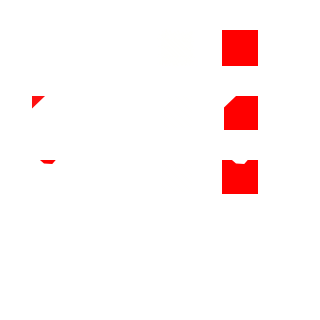
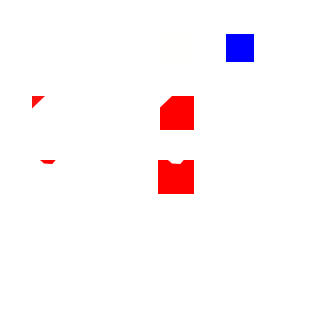
fix: wall rendering

diff --git a/src/net/hedinger/prototype/engine/WorldGenerator.java b/src/net/hedinger/prototype/engine/WorldGenerator.java
@@ -38,6 +38,17 @@ public class WorldGenerator {
 		}
 		cleanup();
 
+		// custom stuff
+
+
+		for (int x = 1; x <= 3; x++) {
+			for (int y = 1; y <= 3; y++) {
+				world.setTile(x, y, 0, TileType.TYPE_HOLE);
+			}
+		}
+
+		// end custom stuff
+
 		for (int i = 1; i < lvls; i++) {
 			placeRampDown(3 + i * 2, 3, i);
 		}
@@ -480,23 +491,6 @@ public class WorldGenerator {
 			}
 			iteration++;
 		} while (rescan && iteration < 100);
-
-		world.setTile(1, 1, 0, TileType.TYPE_FLOOR);
-		world.setTile(2, 1, 0, TileType.TYPE_FLOOR);
-		world.setTile(3, 1, 0, TileType.TYPE_FLOOR);
-		world.setTile(1, 2, 0, TileType.TYPE_FLOOR);
-		world.setTile(2, 2, 0, TileType.TYPE_FLOOR);
-		world.setTile(3, 2, 0, TileType.TYPE_FLOOR);
-		world.setTile(1, 3, 0, TileType.TYPE_FLOOR);
-		world.setTile(2, 3, 0, TileType.TYPE_FLOOR);
-		world.setTile(3, 3, 0, TileType.TYPE_FLOOR);
-
-		for (int x = 2; x <= 3; x++) {
-			for (int y = 2; y <= 4; y++) {
-				world.setTile(x, y, 0, TileType.TYPE_WALL);
-				world.setTile(x, y, 1, TileType.TYPE_WALL);
-			}
-		}
 
 	}
 

diff --git a/src/net/hedinger/prototype/engine/ResourceManager.java b/src/net/hedinger/prototype/engine/ResourceManager.java
@@ -22,7 +22,7 @@ public class ResourceManager {
 	public final static int tilePadding = 16;
 	public final static int wall_variations = 2;
 
-	public final static String wallmapFilename = "res/tiles/sandbox.png";
+	public final static String wallmapFilename = "res/tiles/walls.png";
 	public final static String floormapFilename = "res/tiles/floors.png";
 
 	private static BufferedImage[] wallmap = new BufferedImage[tilemapCols * tilemapRows * 4];
@@ -81,10 +81,10 @@ public class ResourceManager {
 	private static void formatWallTiles() {
 
 		for (int i = 0; i < 4; i++) {
-			wallmap[6 + i * 12] = squash(renderWithMaskedLayers(wallmap[2], wallmap[7 + i * 12], wallmap[5 + i * 12]),
-					floormap[1]);
-			wallmap[10 + i * 12] = squash(renderWithMaskedLayers(wallmap[2], wallmap[11 + i * 12], wallmap[9 + i * 12]),
-					floormap[1]);
+			wallmap[6 + i * 12] = squash(renderWithMaskedLayers(wallmap[2], wallmap[6 + i * 12], wallmap[5 + i * 12]),
+					floormap[3]);
+			wallmap[10 + i * 12] = squash(renderWithMaskedLayers(wallmap[2], wallmap[10 + i * 12], wallmap[9 + i * 12]),
+					floormap[3]);
 		}
 
 		for (int i = 0; i < 4; i++) {
@@ -133,6 +133,11 @@ public class ResourceManager {
 	}
 
 	public static int toTileIndex(String tilecode, int loc) {
+
+		/*
+		 * 123 405 678
+		 */
+
 		if (loc == 0) {
 			if (!tilecode.contains("2") && !tilecode.contains("4")) {
 				// corner
@@ -190,6 +195,7 @@ public class ResourceManager {
 			}
 		}
 
+		// solid
 		return 1;
 	}
 

diff --git a/src/net/hedinger/prototype/engine/Tile.java b/src/net/hedinger/prototype/engine/Tile.java
@@ -45,10 +45,6 @@ public class Tile {
 		type = t;
 	}
 
-	public void setTileCode(String tilecode) {
-		this.tilecode = tilecode;
-	}
-
 	public String getTileCode() {
 		return tilecode;
 	}
@@ -394,9 +390,6 @@ public class Tile {
 
 		if (dirs.size() == 0) {
 			return "0";
-		}
-		if (dirs.size() == 8) {
-			return "9";
 		}
 
 		for (Integer i : dirs) {